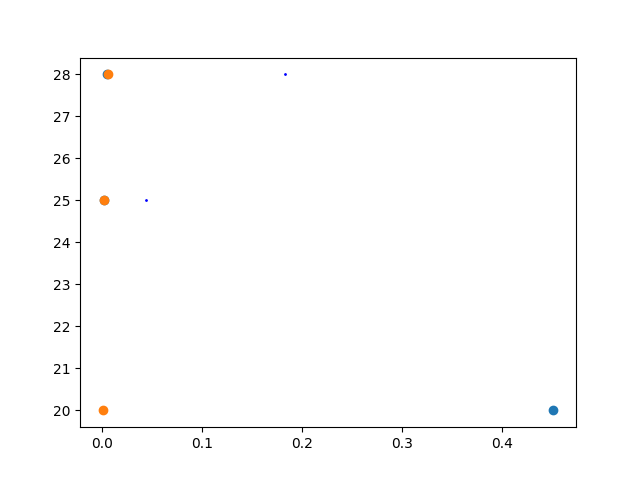
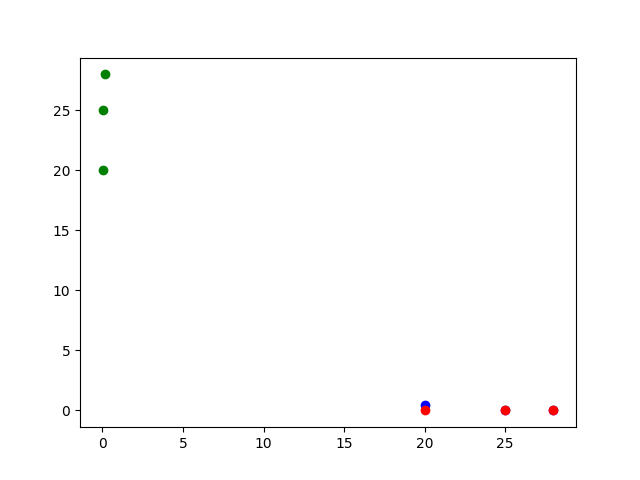
20.3

diff --git a/MA4_files/fibs.py b/MA4_files/fibs.py
@@ -24,10 +24,7 @@ xf = []
 
 # data
 def main():
-    print()
-
     for i in n:
-
         start = pc()
         fib_pure_py(i)
         end = pc()
@@ -44,13 +41,13 @@ def main():
         end = pc()
         xf.append(end-start)
 
-    print()
+    print('.png saved')
 if __name__ == '__main__':
         main()
 
 #plot
 fig, ax = plt.subplots()
-plt.scatter(xp, n, 1, c='Blue')
-plt.scatter(xn, n)
-plt.scatter(xf, n)
+plt.scatter(xp, n, c='Green')
+plt.scatter(n, xn, c='Blue')
+plt.scatter(n, xf, c='Red')
 plt.savefig('FibTimes')
